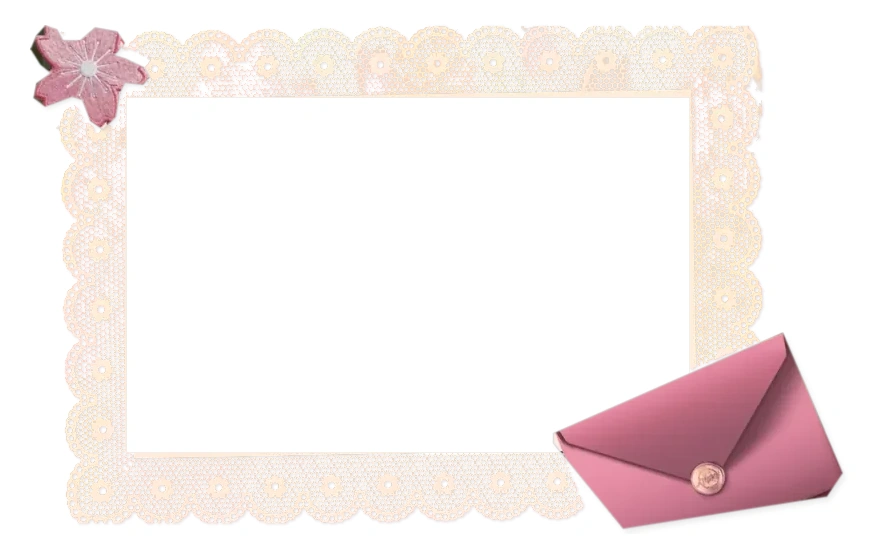
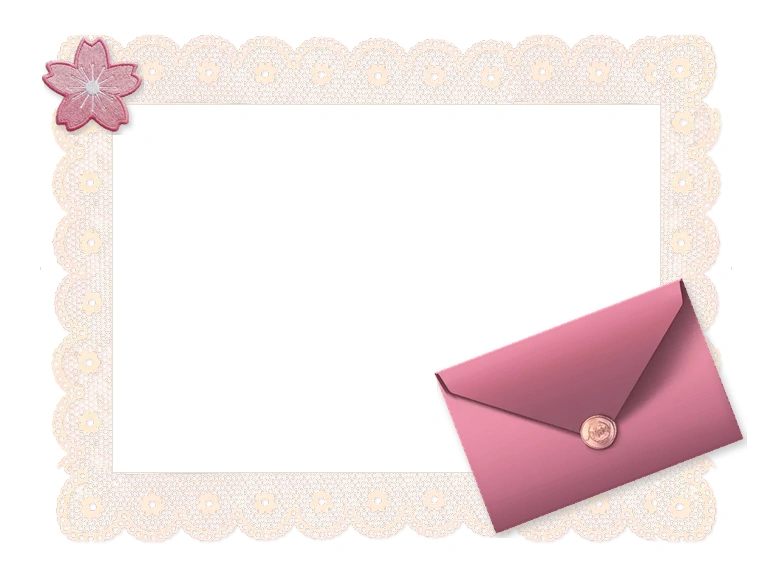
style: perfect seamless crochet lace border with original studio assets for Memory Vault letter

diff --git a/frontend/src/styles/landing.css b/frontend/src/styles/landing.css
@@ -1725,9 +1725,9 @@
 
 .landing-v2 .lace-board-parchment {
   position: absolute;
-  top: 18%;
-  bottom: 19%;
-  left: 16%;
+  top: 19%;
+  bottom: 20%;
+  left: 17%;
   right: 22%;
   display: flex;
   flex-direction: column;
